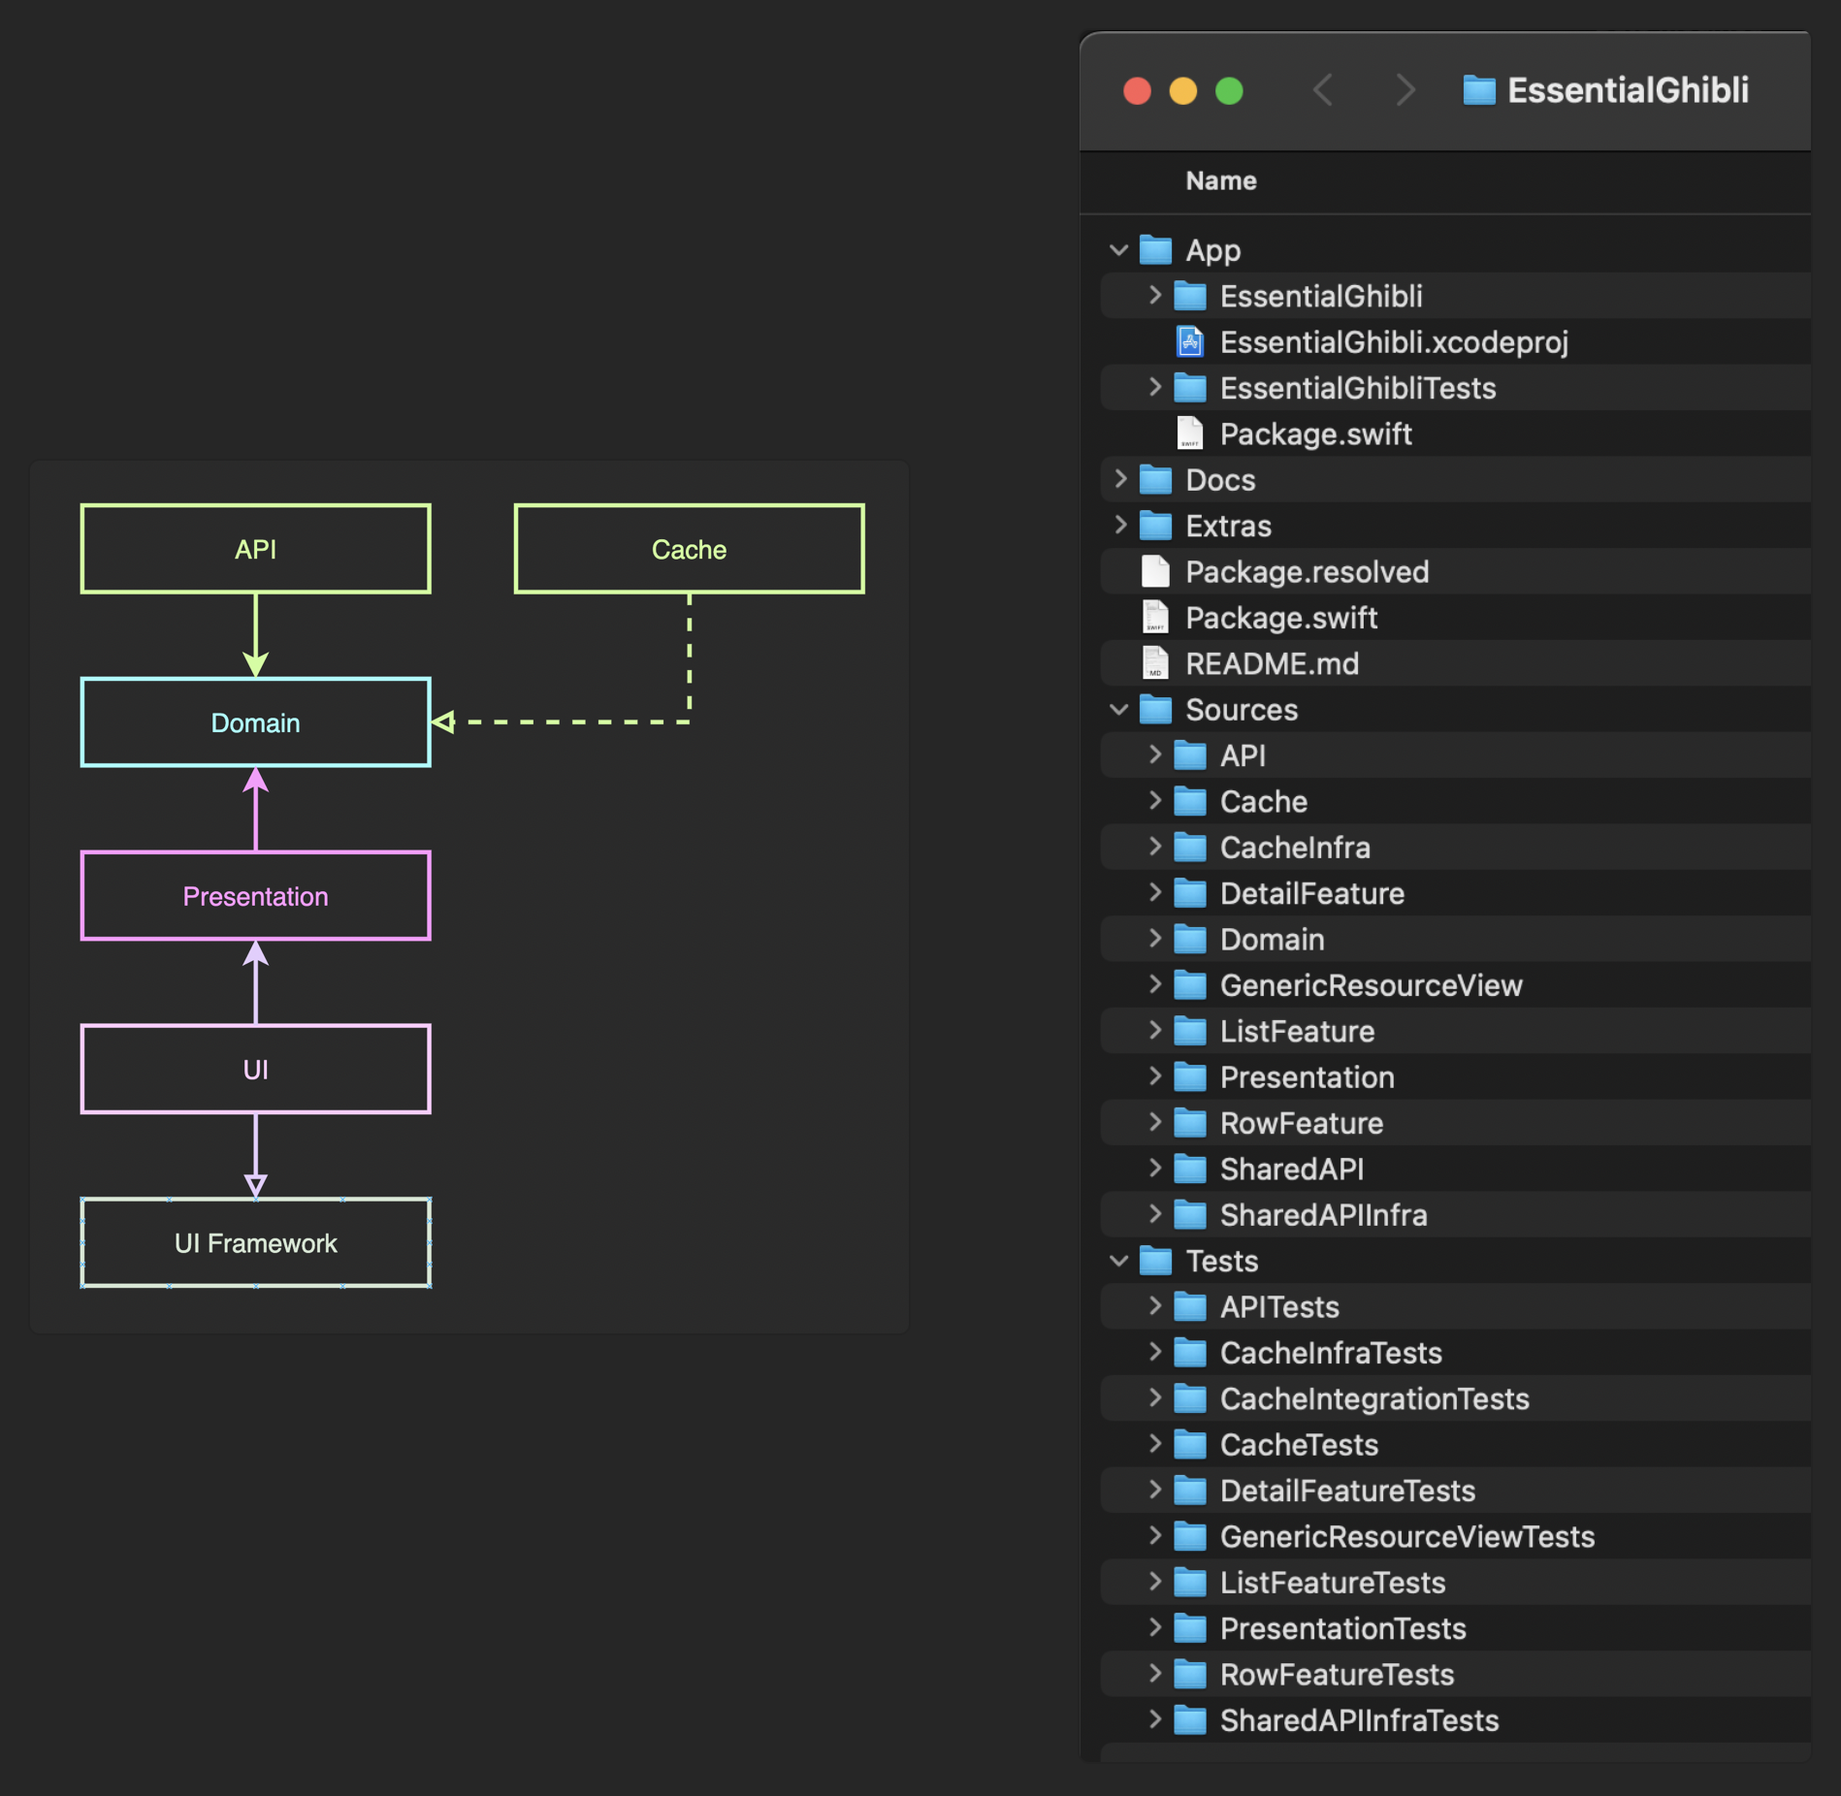
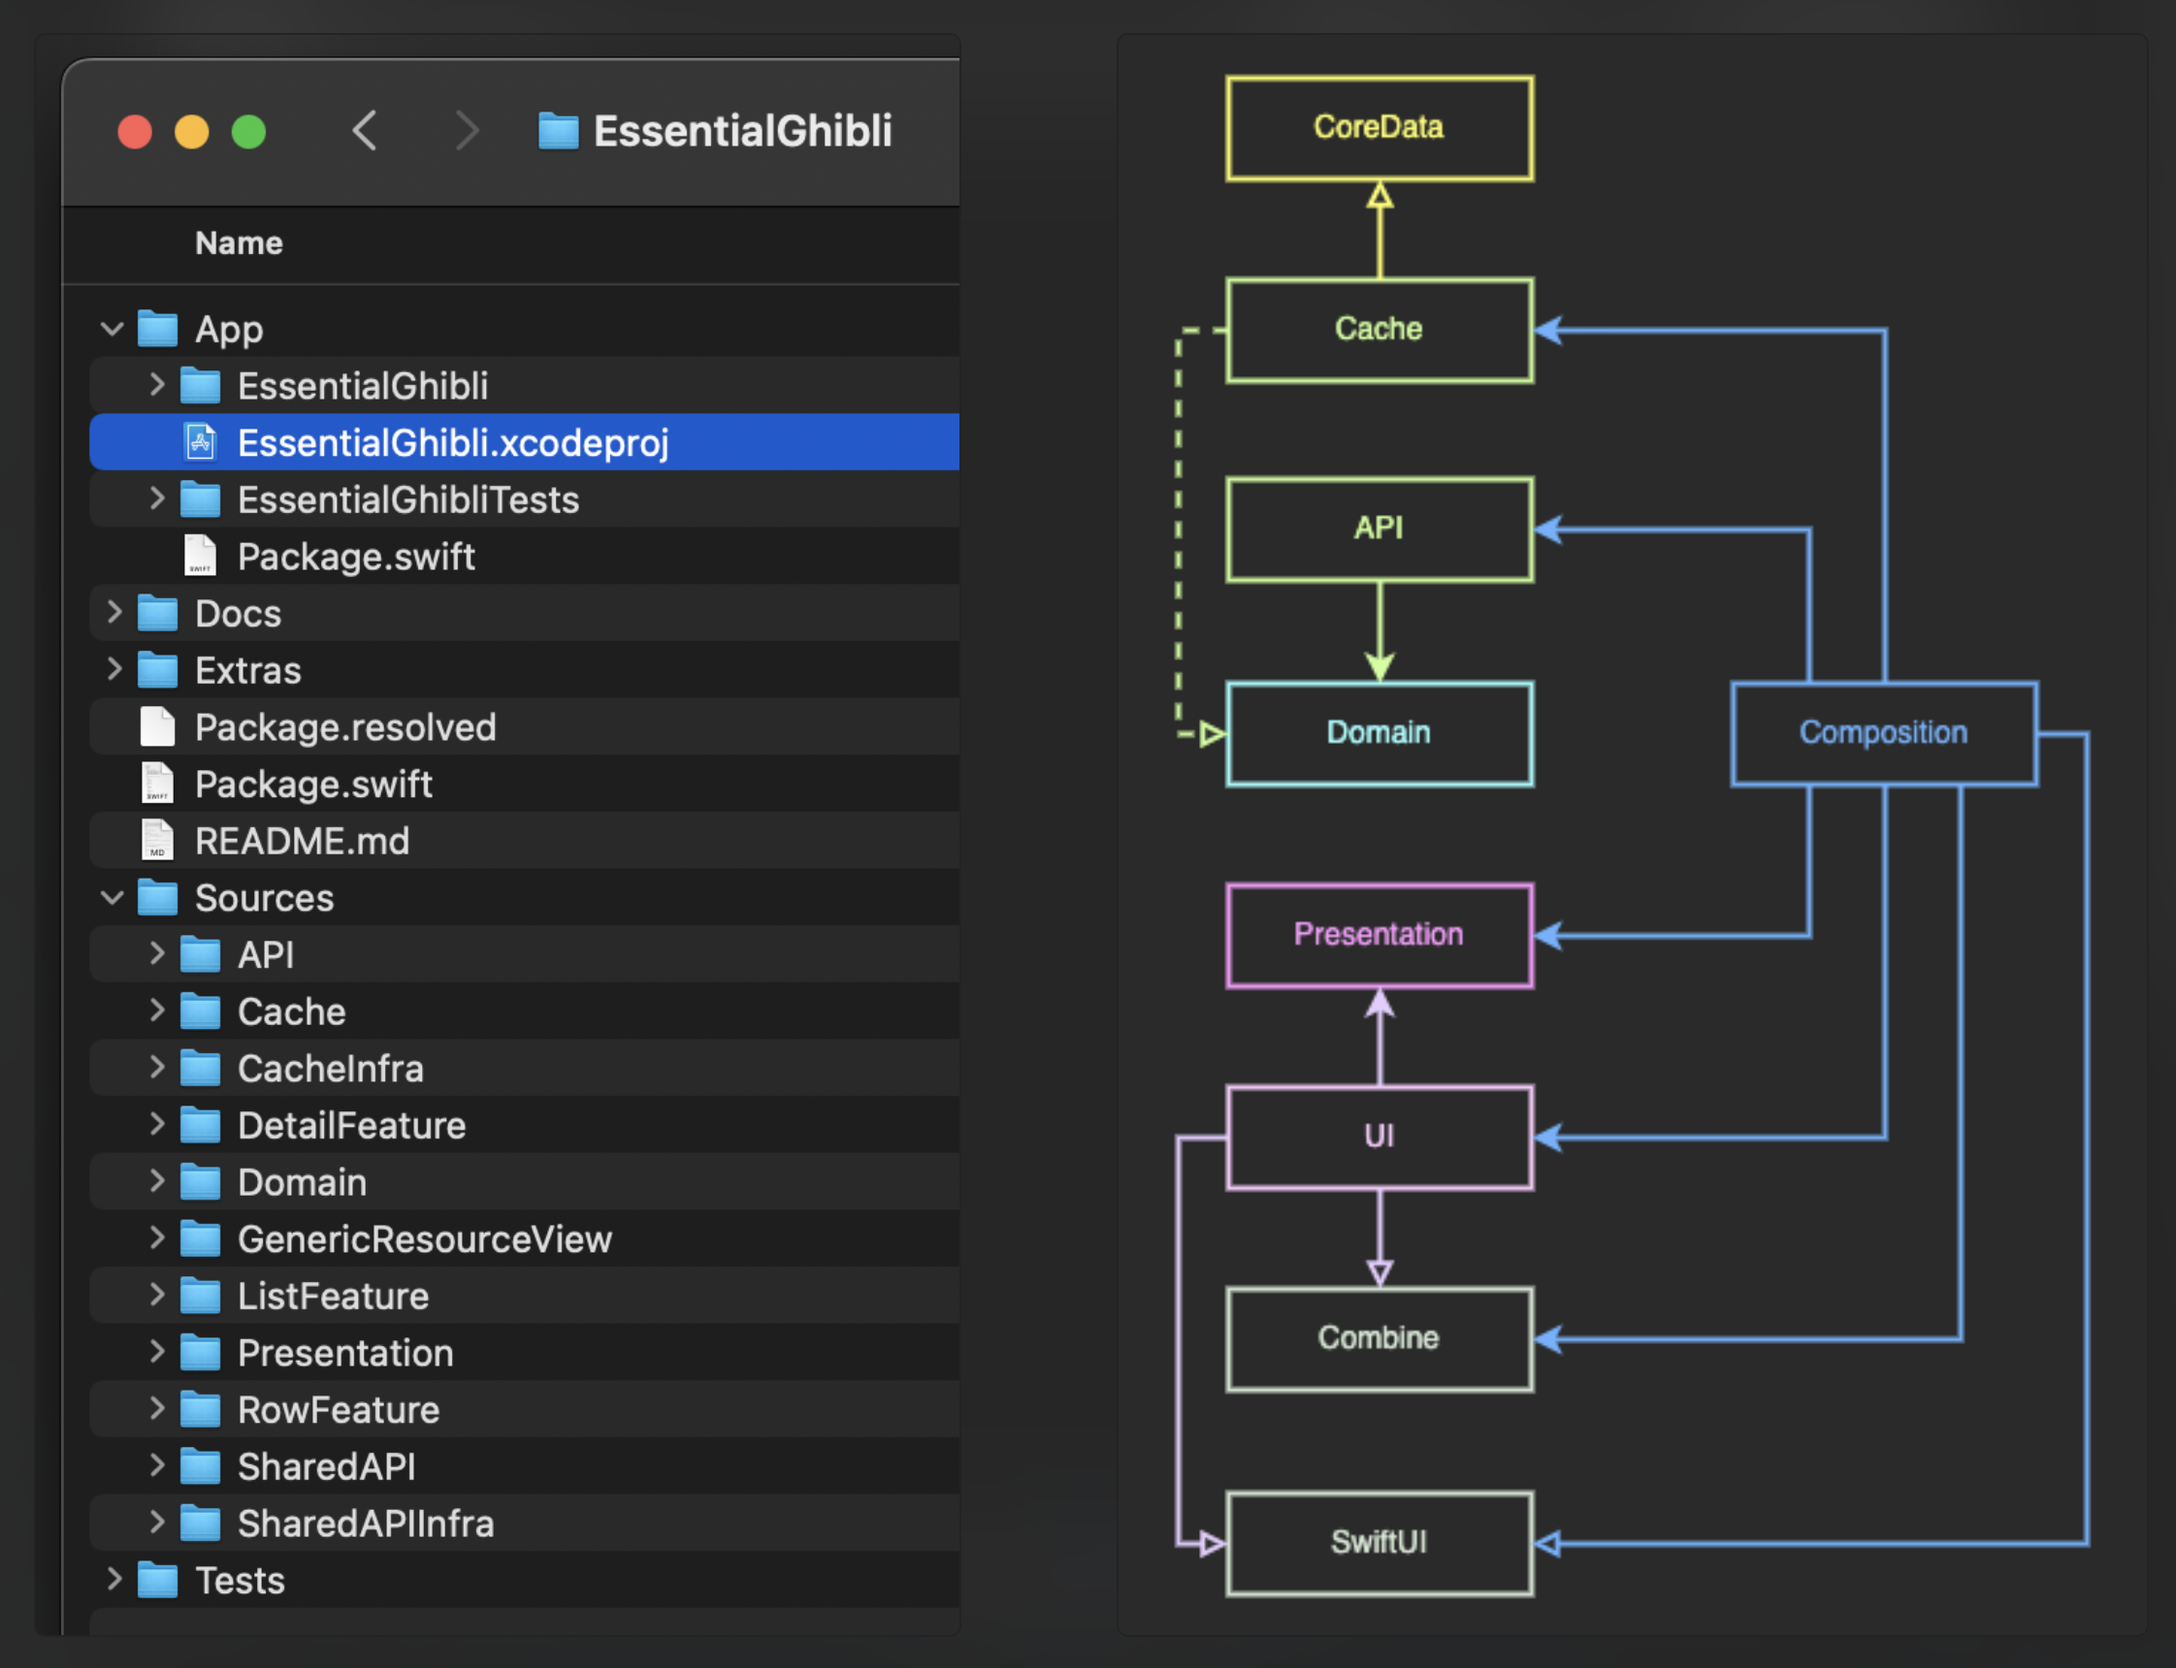
update diagrams

diff --git a/README.md b/README.md
@@ -16,8 +16,6 @@ Hyper-modular architecture
 
 ![File Structure](./Docs/structure.png)
 
-![Modules: top-level view](./Docs/modules-top.png)
-
 with decoupled components
 
 ![Components](./Docs/components.png)
